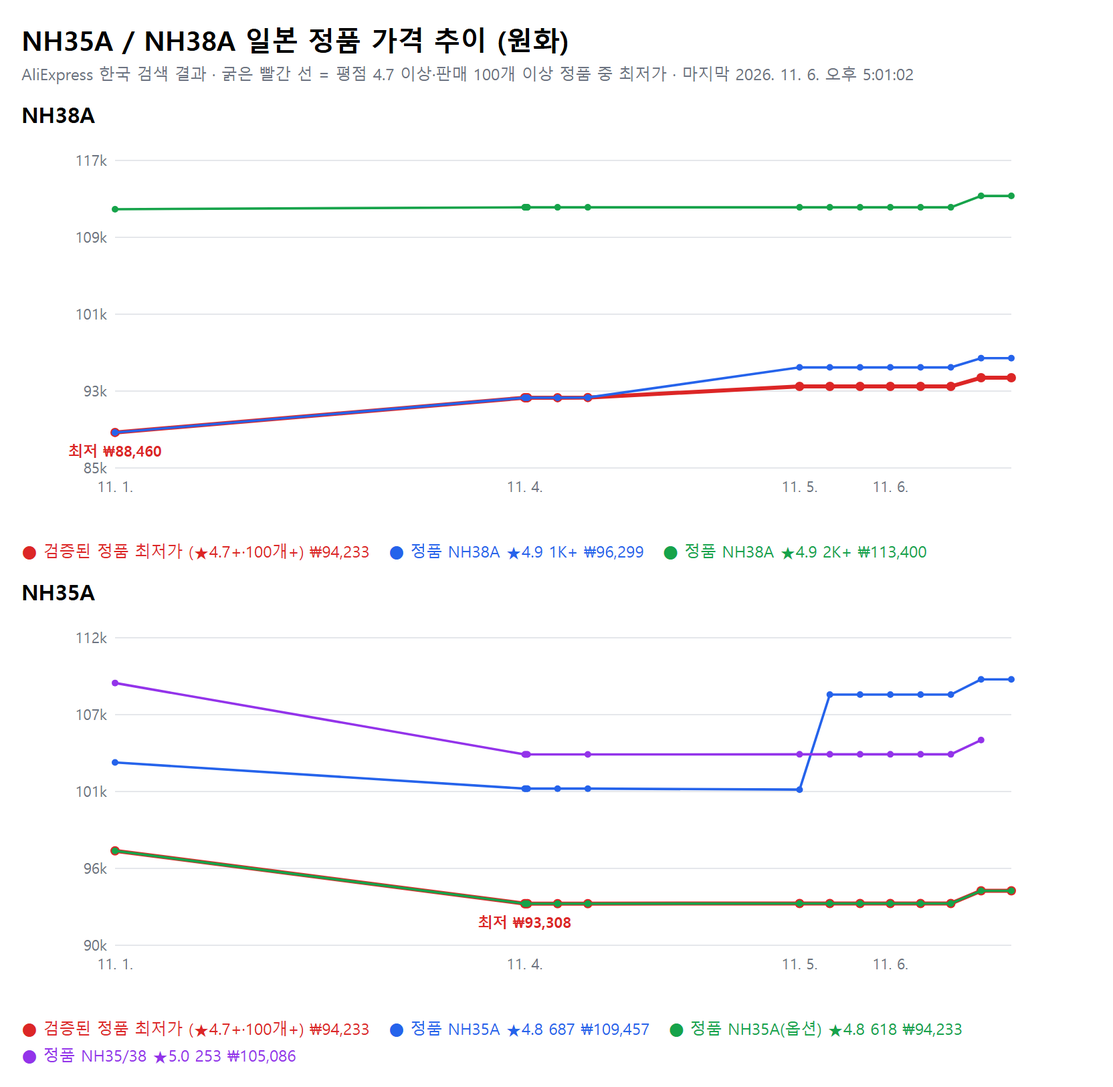
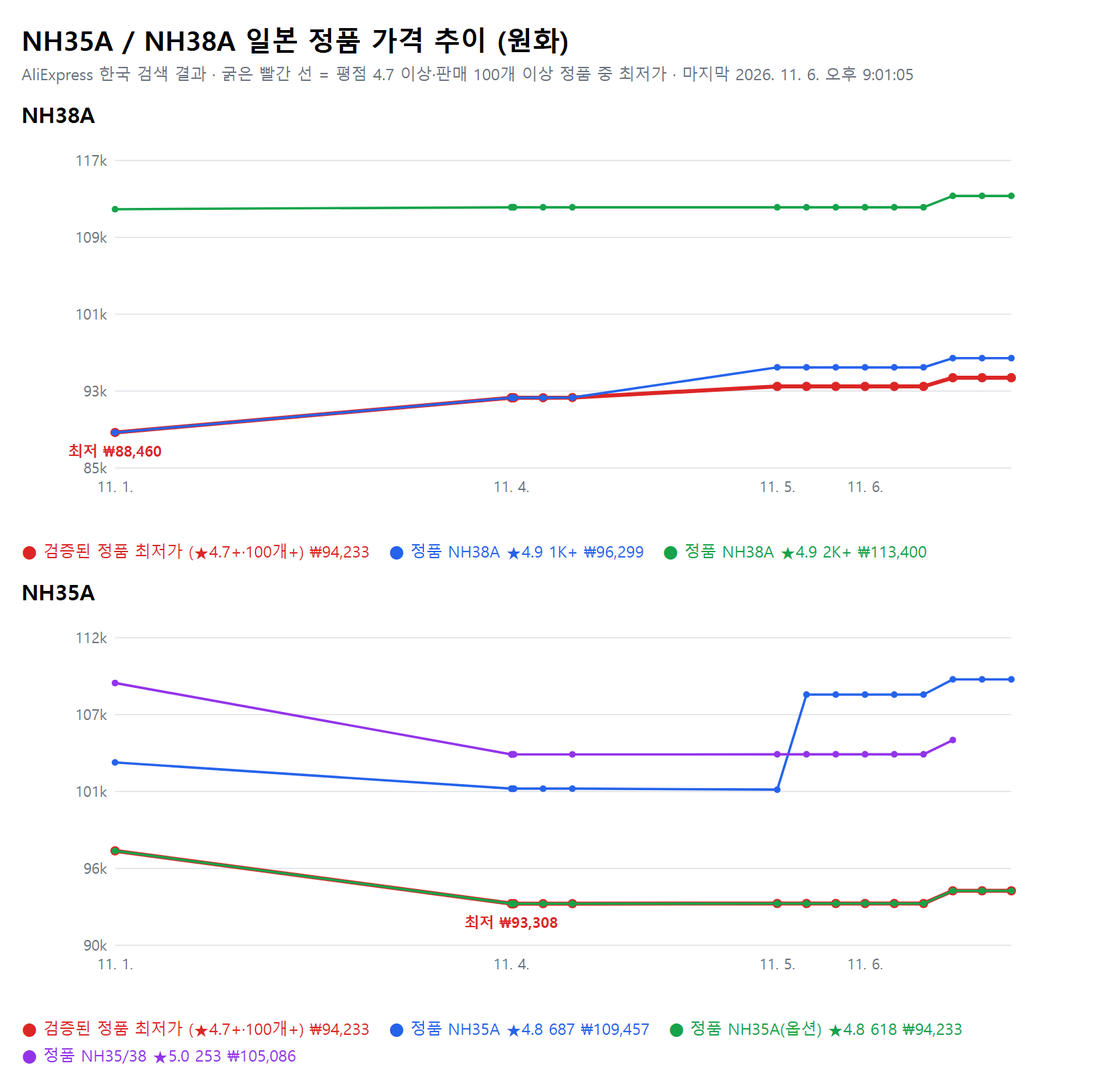
Price tracker update 2026-11-06 21:00 KST

diff --git a/watch_mod/price_tracker/chart.html b/watch_mod/price_tracker/chart.html
@@ -1,2 +1,2 @@
 <!DOCTYPE html><html><head><meta charset="utf-8"><style>body{font-family:sans-serif;margin:16px;width:800px}h1{font-size:20px;margin:0 0 4px}p{color:#6b7280;margin:0 0 8px;font-size:12px}h2{font-size:16px;margin:12px 0 4px}.lg{font-size:12px;display:flex;flex-wrap:wrap;gap:4px 14px}</style></head><body>
-  <h1>NH35A / NH38A 일본 정품 가격 추이 (원화)</h1><p>AliExpress 한국 검색 결과 · 굵은 빨간 선 = 평점 4.7 이상·판매 100개 이상 정품 중 최저가 · 마지막 2026. 11. 6. 오후 5:01:02</p><h2>NH38A</h2><svg width="760" height="300" xmlns="http://www.w3.org/2000/svg" font-family="sans-serif" font-size="11"><line x1="70" x2="740" y1="250" y2="250" stroke="#e5e7eb"/><text x="64" y="254" text-anchor="end" fill="#6b7280">85k</text><line x1="70" x2="740" y1="192.5" y2="192.5" stroke="#e5e7eb"/><text x="64" y="196.5" text-anchor="end" fill="#6b7280">93k</text><line x1="70" x2="740" y1="135" y2="135" stroke="#e5e7eb"/><text x="64" y="139" text-anchor="end" fill="#6b7280">101k</text><line x1="70" x2="740" y1="77.5" y2="77.5" stroke="#e5e7eb"/><text x="64" y="81.5" text-anchor="end" fill="#6b7280">109k</text><line x1="70" x2="740" y1="20" y2="20" stroke="#e5e7eb"/><text x="64" y="24" text-anchor="end" fill="#6b7280">117k</text><text x="70" y="268" text-anchor="middle" fill="#6b7280">11. 1.</text><text x="376.2363946419638" y="268" text-anchor="middle" fill="#6b7280">11. 4.</text><text x="581.7138814114658" y="268" text-anchor="middle" fill="#6b7280">11. 5.</text><text x="649.5533467689485" y="268" text-anchor="middle" fill="#6b7280">11. 6.</text><polyline fill="none" stroke="#dc2626" stroke-width="3" points="70,223.46153846153845 376.2363946419638,197.46221701313925 376.72768268254214,197.46221701313925 377.8052196256576,197.46221701313925 378.3513670674883,197.46221701313925 400.81021863760503,197.46221701313925 423.41705789840506,197.3203380420702 581.7138814114658,189.01332428597865 604.3290041513443,189.01332428597865 626.9394614473665,189.01332428597865 649.5533467689485,189.01332428597865 672.1661391423905,189.01332428597865 694.782938992346,189.01332428597865 717.388707289595,182.50817346246376 740,182.50817346246376"/><circle cx="70" cy="223.46153846153845" r="3.5" fill="#dc2626"/><circle cx="376.2363946419638" cy="197.46221701313925" r="3.5" fill="#dc2626"/><circle cx="376.72768268254214" cy="197.46221701313925" r="3.5" fill="#dc2626"/><circle cx="377.8052196256576" cy="197.46221701313925" r="3.5" fill="#dc2626"/><circle cx="378.3513670674883" cy="197.46221701313925" r="3.5" fill="#dc2626"/><circle cx="400.81021863760503" cy="197.46221701313925" r="3.5" fill="#dc2626"/><circle cx="423.41705789840506" cy="197.3203380420702" r="3.5" fill="#dc2626"/><circle cx="581.7138814114658" cy="189.01332428597865" r="3.5" fill="#dc2626"/><circle cx="604.3290041513443" cy="189.01332428597865" r="3.5" fill="#dc2626"/><circle cx="626.9394614473665" cy="189.01332428597865" r="3.5" fill="#dc2626"/><circle cx="649.5533467689485" cy="189.01332428597865" r="3.5" fill="#dc2626"/><circle cx="672.1661391423905" cy="189.01332428597865" r="3.5" fill="#dc2626"/><circle cx="694.782938992346" cy="189.01332428597865" r="3.5" fill="#dc2626"/><circle cx="717.388707289595" cy="182.50817346246376" r="3.5" fill="#dc2626"/><circle cx="740" cy="182.50817346246376" r="3.5" fill="#dc2626"/><polyline fill="none" stroke="#2563eb" stroke-width="1.8" points="70,223.46153846153845 376.2363946419638,197.46221701313925 376.72768268254214,197.46221701313925 377.8052196256576,197.46221701313925 378.3513670674883,197.46221701313925 400.81021863760503,197.46221701313925 423.41705789840506,197.3203380420702 581.7138814114658,174.7899574363087 604.3290041513443,174.7899574363087 626.9394614473665,174.7899574363087 649.5533467689485,174.7899574363087 672.1661391423905,174.7899574363087 694.782938992346,174.7899574363087 717.388707289595,167.85207575103323 740,167.85207575103323"/><circle cx="70" cy="223.46153846153845" r="2.5" fill="#2563eb"/><circle cx="376.2363946419638" cy="197.46221701313925" r="2.5" fill="#2563eb"/><circle cx="376.72768268254214" cy="197.46221701313925" r="2.5" fill="#2563eb"/><circle cx="377.8052196256576" cy="197.46221701313925" r="2.5" fill="#2563eb"/><circle cx="378.3513670674883" cy="197.46221701313925" r="2.5" fill="#2563eb"/><circle cx="400.81021863760503" cy="197.46221701313925" r="2.5" fill="#2563eb"/><circle cx="423.41705789840506" cy="197.3203380420702" r="2.5" fill="#2563eb"/><circle cx="581.7138814114658" cy="174.7899574363087" r="2.5" fill="#2563eb"/><circle cx="604.3290041513443" cy="174.7899574363087" r="2.5" fill="#2563eb"/><circle cx="626.9394614473665" cy="174.7899574363087" r="2.5" fill="#2563eb"/><circle cx="649.5533467689485" cy="174.7899574363087" r="2.5" fill="#2563eb"/><circle cx="672.1661391423905" cy="174.7899574363087" r="2.5" fill="#2563eb"/><circle cx="694.782938992346" cy="174.7899574363087" r="2.5" fill="#2563eb"/><circle cx="717.388707289595" cy="167.85207575103323" r="2.5" fill="#2563eb"/><circle cx="740" cy="167.85207575103323" r="2.5" fill="#2563eb"/><polyline fill="none" stroke="#16a34a" stroke-width="1.8" points="70,56.469989513293434 376.2363946419638,55.05119980260318 376.72768268254214,55.05119980260318 377.8052196256576,55.05119980260318 378.3513670674883,55.05119980260318 400.81021863760503,55.05119980260318 423.41705789840506,55.05119980260318 581.7138814114658,55.05119980260318 604.3290041513443,55.05119980260318 626.9394614473665,55.05119980260318 649.5533467689485,55.05119980260318 672.1661391423905,55.05119980260318 694.782938992346,55.05119980260318 717.388707289595,46.53846153846155 740,46.53846153846155"/><circle cx="70" cy="56.469989513293434" r="2.5" fill="#16a34a"/><circle cx="376.2363946419638" cy="55.05119980260318" r="2.5" fill="#16a34a"/><circle cx="376.72768268254214" cy="55.05119980260318" r="2.5" fill="#16a34a"/><circle cx="377.8052196256576" cy="55.05119980260318" r="2.5" fill="#16a34a"/><circle cx="378.3513670674883" cy="55.05119980260318" r="2.5" fill="#16a34a"/><circle cx="400.81021863760503" cy="55.05119980260318" r="2.5" fill="#16a34a"/><circle cx="423.41705789840506" cy="55.05119980260318" r="2.5" fill="#16a34a"/><circle cx="581.7138814114658" cy="55.05119980260318" r="2.5" fill="#16a34a"/><circle cx="604.3290041513443" cy="55.05119980260318" r="2.5" fill="#16a34a"/><circle cx="626.9394614473665" cy="55.05119980260318" r="2.5" fill="#16a34a"/><circle cx="649.5533467689485" cy="55.05119980260318" r="2.5" fill="#16a34a"/><circle cx="672.1661391423905" cy="55.05119980260318" r="2.5" fill="#16a34a"/><circle cx="694.782938992346" cy="55.05119980260318" r="2.5" fill="#16a34a"/><circle cx="717.388707289595" cy="46.53846153846155" r="2.5" fill="#16a34a"/><circle cx="740" cy="46.53846153846155" r="2.5" fill="#16a34a"/><text x="70" y="241.46153846153845" text-anchor="middle" fill="#dc2626" font-weight="bold">최저 ₩88,460</text></svg><div class="lg"><span style="color:#dc2626">● 검증된 정품 최저가 (★4.7+·100개+) ₩94,233</span><span style="color:#2563eb">● 정품 NH38A ★4.9 1K+ ₩96,299</span><span style="color:#16a34a">● 정품 NH38A ★4.9 2K+ ₩113,400</span></div><h2>NH35A</h2><svg width="760" height="300" xmlns="http://www.w3.org/2000/svg" font-family="sans-serif" font-size="11"><line x1="70" x2="740" y1="250" y2="250" stroke="#e5e7eb"/><text x="64" y="254" text-anchor="end" fill="#6b7280">90k</text><line x1="70" x2="740" y1="192.5" y2="192.5" stroke="#e5e7eb"/><text x="64" y="196.5" text-anchor="end" fill="#6b7280">96k</text><line x1="70" x2="740" y1="135" y2="135" stroke="#e5e7eb"/><text x="64" y="139" text-anchor="end" fill="#6b7280">101k</text><line x1="70" x2="740" y1="77.5" y2="77.5" stroke="#e5e7eb"/><text x="64" y="81.5" text-anchor="end" fill="#6b7280">107k</text><line x1="70" x2="740" y1="20" y2="20" stroke="#e5e7eb"/><text x="64" y="24" text-anchor="end" fill="#6b7280">112k</text><text x="70" y="268" text-anchor="middle" fill="#6b7280">11. 1.</text><text x="376.2363946419638" y="268" text-anchor="middle" fill="#6b7280">11. 4.</text><text x="581.7138814114658" y="268" text-anchor="middle" fill="#6b7280">11. 5.</text><text x="649.5533467689485" y="268" text-anchor="middle" fill="#6b7280">11. 6.</text><polyline fill="none" stroke="#dc2626" stroke-width="3" points="70,179.38733125649014 376.2363946419638,218.84735202492212 376.72768268254214,218.84735202492212 377.8052196256576,218.84735202492212 378.3513670674883,218.84735202492212 400.81021863760503,218.84735202492212 423.41705789840506,218.84735202492212 581.7138814114658,218.76427829698858 604.3290041513443,218.76427829698858 626.9394614473665,218.76427829698858 649.5533467689485,218.76427829698858 672.1661391423905,218.76427829698858 694.782938992346,218.76427829698858 717.388707289595,209.24195223260645 740,209.24195223260645"/><circle cx="70" cy="179.38733125649014" r="3.5" fill="#dc2626"/><circle cx="376.2363946419638" cy="218.84735202492212" r="3.5" fill="#dc2626"/><circle cx="376.72768268254214" cy="218.84735202492212" r="3.5" fill="#dc2626"/><circle cx="377.8052196256576" cy="218.84735202492212" r="3.5" fill="#dc2626"/><circle cx="378.3513670674883" cy="218.84735202492212" r="3.5" fill="#dc2626"/><circle cx="400.81021863760503" cy="218.84735202492212" r="3.5" fill="#dc2626"/><circle cx="423.41705789840506" cy="218.84735202492212" r="3.5" fill="#dc2626"/><circle cx="581.7138814114658" cy="218.76427829698858" r="3.5" fill="#dc2626"/><circle cx="604.3290041513443" cy="218.76427829698858" r="3.5" fill="#dc2626"/><circle cx="626.9394614473665" cy="218.76427829698858" r="3.5" fill="#dc2626"/><circle cx="649.5533467689485" cy="218.76427829698858" r="3.5" fill="#dc2626"/><circle cx="672.1661391423905" cy="218.76427829698858" r="3.5" fill="#dc2626"/><circle cx="694.782938992346" cy="218.76427829698858" r="3.5" fill="#dc2626"/><circle cx="717.388707289595" cy="209.24195223260645" r="3.5" fill="#dc2626"/><circle cx="740" cy="209.24195223260645" r="3.5" fill="#dc2626"/><polyline fill="none" stroke="#2563eb" stroke-width="1.8" points="70,113.23987538940811 376.2363946419638,132.8348909657321 376.72768268254214,132.8348909657321 377.8052196256576,132.8348909657321 378.3513670674883,132.8348909657321 400.81021863760503,132.8348909657321 423.41705789840506,132.8348909657321 581.7138814114658,133.58255451713396 604.3290041513443,62.50259605399793 626.9394614473665,62.50259605399793 649.5533467689485,62.50259605399793 672.1661391423905,62.50259605399793 694.782938992346,62.50259605399793 717.388707289595,51.1526479750779 740,51.1526479750779"/><circle cx="70" cy="113.23987538940811" r="2.5" fill="#2563eb"/><circle cx="376.2363946419638" cy="132.8348909657321" r="2.5" fill="#2563eb"/><circle cx="376.72768268254214" cy="132.8348909657321" r="2.5" fill="#2563eb"/><circle cx="377.8052196256576" cy="132.8348909657321" r="2.5" fill="#2563eb"/><circle cx="378.3513670674883" cy="132.8348909657321" r="2.5" fill="#2563eb"/><circle cx="400.81021863760503" cy="132.8348909657321" r="2.5" fill="#2563eb"/><circle cx="423.41705789840506" cy="132.8348909657321" r="2.5" fill="#2563eb"/><circle cx="581.7138814114658" cy="133.58255451713396" r="2.5" fill="#2563eb"/><circle cx="604.3290041513443" cy="62.50259605399793" r="2.5" fill="#2563eb"/><circle cx="626.9394614473665" cy="62.50259605399793" r="2.5" fill="#2563eb"/><circle cx="649.5533467689485" cy="62.50259605399793" r="2.5" fill="#2563eb"/><circle cx="672.1661391423905" cy="62.50259605399793" r="2.5" fill="#2563eb"/><circle cx="694.782938992346" cy="62.50259605399793" r="2.5" fill="#2563eb"/><circle cx="717.388707289595" cy="51.1526479750779" r="2.5" fill="#2563eb"/><circle cx="740" cy="51.1526479750779" r="2.5" fill="#2563eb"/><polyline fill="none" stroke="#16a34a" stroke-width="1.8" points="70,179.38733125649014 376.2363946419638,218.84735202492212 376.72768268254214,218.84735202492212 377.8052196256576,218.84735202492212 378.3513670674883,218.84735202492212 400.81021863760503,218.84735202492212 423.41705789840506,218.84735202492212 581.7138814114658,218.76427829698858 604.3290041513443,218.76427829698858 626.9394614473665,218.76427829698858 649.5533467689485,218.76427829698858 672.1661391423905,218.76427829698858 694.782938992346,218.76427829698858 717.388707289595,209.24195223260645 740,209.24195223260645"/><circle cx="70" cy="179.38733125649014" r="2.5" fill="#16a34a"/><circle cx="376.2363946419638" cy="218.84735202492212" r="2.5" fill="#16a34a"/><circle cx="376.72768268254214" cy="218.84735202492212" r="2.5" fill="#16a34a"/><circle cx="377.8052196256576" cy="218.84735202492212" r="2.5" fill="#16a34a"/><circle cx="378.3513670674883" cy="218.84735202492212" r="2.5" fill="#16a34a"/><circle cx="400.81021863760503" cy="218.84735202492212" r="2.5" fill="#16a34a"/><circle cx="423.41705789840506" cy="218.84735202492212" r="2.5" fill="#16a34a"/><circle cx="581.7138814114658" cy="218.76427829698858" r="2.5" fill="#16a34a"/><circle cx="604.3290041513443" cy="218.76427829698858" r="2.5" fill="#16a34a"/><circle cx="626.9394614473665" cy="218.76427829698858" r="2.5" fill="#16a34a"/><circle cx="649.5533467689485" cy="218.76427829698858" r="2.5" fill="#16a34a"/><circle cx="672.1661391423905" cy="218.76427829698858" r="2.5" fill="#16a34a"/><circle cx="694.782938992346" cy="218.76427829698858" r="2.5" fill="#16a34a"/><circle cx="717.388707289595" cy="209.24195223260645" r="2.5" fill="#16a34a"/><circle cx="740" cy="209.24195223260645" r="2.5" fill="#16a34a"/><polyline fill="none" stroke="#9333ea" stroke-width="1.8" points="70,53.821391484942886 376.2363946419638,107.26895119418484 376.72768268254214,107.26895119418484 377.8052196256576,107.26895119418484 378.3513670674883,107.26895119418484 423.41705789840506,107.26895119418484 581.7138814114658,107.17549325025959 604.3290041513443,107.17549325025959 626.9394614473665,107.17549325025959 649.5533467689485,107.17549325025959 672.1661391423905,107.17549325025959 694.782938992346,107.17549325025959 717.388707289595,96.54205607476636"/><circle cx="70" cy="53.821391484942886" r="2.5" fill="#9333ea"/><circle cx="376.2363946419638" cy="107.26895119418484" r="2.5" fill="#9333ea"/><circle cx="376.72768268254214" cy="107.26895119418484" r="2.5" fill="#9333ea"/><circle cx="377.8052196256576" cy="107.26895119418484" r="2.5" fill="#9333ea"/><circle cx="378.3513670674883" cy="107.26895119418484" r="2.5" fill="#9333ea"/><circle cx="423.41705789840506" cy="107.26895119418484" r="2.5" fill="#9333ea"/><circle cx="581.7138814114658" cy="107.17549325025959" r="2.5" fill="#9333ea"/><circle cx="604.3290041513443" cy="107.17549325025959" r="2.5" fill="#9333ea"/><circle cx="626.9394614473665" cy="107.17549325025959" r="2.5" fill="#9333ea"/><circle cx="649.5533467689485" cy="107.17549325025959" r="2.5" fill="#9333ea"/><circle cx="672.1661391423905" cy="107.17549325025959" r="2.5" fill="#9333ea"/><circle cx="694.782938992346" cy="107.17549325025959" r="2.5" fill="#9333ea"/><circle cx="717.388707289595" cy="96.54205607476636" r="2.5" fill="#9333ea"/><text x="376.2363946419638" y="236.84735202492212" text-anchor="middle" fill="#dc2626" font-weight="bold">최저 ₩93,308</text></svg><div class="lg"><span style="color:#dc2626">● 검증된 정품 최저가 (★4.7+·100개+) ₩94,233</span><span style="color:#2563eb">● 정품 NH35A ★4.8 687 ₩109,457</span><span style="color:#16a34a">● 정품 NH35A(옵션) ★4.8 618 ₩94,233</span><span style="color:#9333ea">● 정품 NH35/38 ★5.0 253 ₩105,086</span></div></body></html>
+  <h1>NH35A / NH38A 일본 정품 가격 추이 (원화)</h1><p>AliExpress 한국 검색 결과 · 굵은 빨간 선 = 평점 4.7 이상·판매 100개 이상 정품 중 최저가 · 마지막 2026. 11. 6. 오후 9:01:05</p><h2>NH38A</h2><svg width="760" height="300" xmlns="http://www.w3.org/2000/svg" font-family="sans-serif" font-size="11"><line x1="70" x2="740" y1="250" y2="250" stroke="#e5e7eb"/><text x="64" y="254" text-anchor="end" fill="#6b7280">85k</text><line x1="70" x2="740" y1="192.5" y2="192.5" stroke="#e5e7eb"/><text x="64" y="196.5" text-anchor="end" fill="#6b7280">93k</text><line x1="70" x2="740" y1="135" y2="135" stroke="#e5e7eb"/><text x="64" y="139" text-anchor="end" fill="#6b7280">101k</text><line x1="70" x2="740" y1="77.5" y2="77.5" stroke="#e5e7eb"/><text x="64" y="81.5" text-anchor="end" fill="#6b7280">109k</text><line x1="70" x2="740" y1="20" y2="20" stroke="#e5e7eb"/><text x="64" y="24" text-anchor="end" fill="#6b7280">117k</text><text x="70" y="268" text-anchor="middle" fill="#6b7280">11. 1.</text><text x="366.2362345197405" y="268" text-anchor="middle" fill="#6b7280">11. 4.</text><text x="565.0038468094003" y="268" text-anchor="middle" fill="#6b7280">11. 5.</text><text x="630.6280120652277" y="268" text-anchor="middle" fill="#6b7280">11. 6.</text><polyline fill="none" stroke="#dc2626" stroke-width="3" points="70,223.46153846153845 366.2362345197405,197.46221701313925 366.7114795322599,197.46221701313925 367.7538294690061,197.46221701313925 368.28214244712115,197.46221701313925 390.0075994377824,197.46221701313925 411.87621157593856,197.3203380420702 565.0038468094003,189.01332428597865 586.8804719293373,189.01332428597865 608.7525839556496,189.01332428597865 630.6280120652277,189.01332428597865 652.5023829169255,189.01332428597865 674.3806303808516,189.01332428597865 696.2482065278087,182.50817346246376 718.1211266880182,182.50817346246376 740,182.50817346246376"/><circle cx="70" cy="223.46153846153845" r="3.5" fill="#dc2626"/><circle cx="366.2362345197405" cy="197.46221701313925" r="3.5" fill="#dc2626"/><circle cx="366.7114795322599" cy="197.46221701313925" r="3.5" fill="#dc2626"/><circle cx="367.7538294690061" cy="197.46221701313925" r="3.5" fill="#dc2626"/><circle cx="368.28214244712115" cy="197.46221701313925" r="3.5" fill="#dc2626"/><circle cx="390.0075994377824" cy="197.46221701313925" r="3.5" fill="#dc2626"/><circle cx="411.87621157593856" cy="197.3203380420702" r="3.5" fill="#dc2626"/><circle cx="565.0038468094003" cy="189.01332428597865" r="3.5" fill="#dc2626"/><circle cx="586.8804719293373" cy="189.01332428597865" r="3.5" fill="#dc2626"/><circle cx="608.7525839556496" cy="189.01332428597865" r="3.5" fill="#dc2626"/><circle cx="630.6280120652277" cy="189.01332428597865" r="3.5" fill="#dc2626"/><circle cx="652.5023829169255" cy="189.01332428597865" r="3.5" fill="#dc2626"/><circle cx="674.3806303808516" cy="189.01332428597865" r="3.5" fill="#dc2626"/><circle cx="696.2482065278087" cy="182.50817346246376" r="3.5" fill="#dc2626"/><circle cx="718.1211266880182" cy="182.50817346246376" r="3.5" fill="#dc2626"/><circle cx="740" cy="182.50817346246376" r="3.5" fill="#dc2626"/><polyline fill="none" stroke="#2563eb" stroke-width="1.8" points="70,223.46153846153845 366.2362345197405,197.46221701313925 366.7114795322599,197.46221701313925 367.7538294690061,197.46221701313925 368.28214244712115,197.46221701313925 390.0075994377824,197.46221701313925 411.87621157593856,197.3203380420702 565.0038468094003,174.7899574363087 586.8804719293373,174.7899574363087 608.7525839556496,174.7899574363087 630.6280120652277,174.7899574363087 652.5023829169255,174.7899574363087 674.3806303808516,174.7899574363087 696.2482065278087,167.85207575103323 718.1211266880182,167.85207575103323 740,167.85207575103323"/><circle cx="70" cy="223.46153846153845" r="2.5" fill="#2563eb"/><circle cx="366.2362345197405" cy="197.46221701313925" r="2.5" fill="#2563eb"/><circle cx="366.7114795322599" cy="197.46221701313925" r="2.5" fill="#2563eb"/><circle cx="367.7538294690061" cy="197.46221701313925" r="2.5" fill="#2563eb"/><circle cx="368.28214244712115" cy="197.46221701313925" r="2.5" fill="#2563eb"/><circle cx="390.0075994377824" cy="197.46221701313925" r="2.5" fill="#2563eb"/><circle cx="411.87621157593856" cy="197.3203380420702" r="2.5" fill="#2563eb"/><circle cx="565.0038468094003" cy="174.7899574363087" r="2.5" fill="#2563eb"/><circle cx="586.8804719293373" cy="174.7899574363087" r="2.5" fill="#2563eb"/><circle cx="608.7525839556496" cy="174.7899574363087" r="2.5" fill="#2563eb"/><circle cx="630.6280120652277" cy="174.7899574363087" r="2.5" fill="#2563eb"/><circle cx="652.5023829169255" cy="174.7899574363087" r="2.5" fill="#2563eb"/><circle cx="674.3806303808516" cy="174.7899574363087" r="2.5" fill="#2563eb"/><circle cx="696.2482065278087" cy="167.85207575103323" r="2.5" fill="#2563eb"/><circle cx="718.1211266880182" cy="167.85207575103323" r="2.5" fill="#2563eb"/><circle cx="740" cy="167.85207575103323" r="2.5" fill="#2563eb"/><polyline fill="none" stroke="#16a34a" stroke-width="1.8" points="70,56.469989513293434 366.2362345197405,55.05119980260318 366.7114795322599,55.05119980260318 367.7538294690061,55.05119980260318 368.28214244712115,55.05119980260318 390.0075994377824,55.05119980260318 411.87621157593856,55.05119980260318 565.0038468094003,55.05119980260318 586.8804719293373,55.05119980260318 608.7525839556496,55.05119980260318 630.6280120652277,55.05119980260318 652.5023829169255,55.05119980260318 674.3806303808516,55.05119980260318 696.2482065278087,46.53846153846155 718.1211266880182,46.53846153846155 740,46.53846153846155"/><circle cx="70" cy="56.469989513293434" r="2.5" fill="#16a34a"/><circle cx="366.2362345197405" cy="55.05119980260318" r="2.5" fill="#16a34a"/><circle cx="366.7114795322599" cy="55.05119980260318" r="2.5" fill="#16a34a"/><circle cx="367.7538294690061" cy="55.05119980260318" r="2.5" fill="#16a34a"/><circle cx="368.28214244712115" cy="55.05119980260318" r="2.5" fill="#16a34a"/><circle cx="390.0075994377824" cy="55.05119980260318" r="2.5" fill="#16a34a"/><circle cx="411.87621157593856" cy="55.05119980260318" r="2.5" fill="#16a34a"/><circle cx="565.0038468094003" cy="55.05119980260318" r="2.5" fill="#16a34a"/><circle cx="586.8804719293373" cy="55.05119980260318" r="2.5" fill="#16a34a"/><circle cx="608.7525839556496" cy="55.05119980260318" r="2.5" fill="#16a34a"/><circle cx="630.6280120652277" cy="55.05119980260318" r="2.5" fill="#16a34a"/><circle cx="652.5023829169255" cy="55.05119980260318" r="2.5" fill="#16a34a"/><circle cx="674.3806303808516" cy="55.05119980260318" r="2.5" fill="#16a34a"/><circle cx="696.2482065278087" cy="46.53846153846155" r="2.5" fill="#16a34a"/><circle cx="718.1211266880182" cy="46.53846153846155" r="2.5" fill="#16a34a"/><circle cx="740" cy="46.53846153846155" r="2.5" fill="#16a34a"/><text x="70" y="241.46153846153845" text-anchor="middle" fill="#dc2626" font-weight="bold">최저 ₩88,460</text></svg><div class="lg"><span style="color:#dc2626">● 검증된 정품 최저가 (★4.7+·100개+) ₩94,233</span><span style="color:#2563eb">● 정품 NH38A ★4.9 1K+ ₩96,299</span><span style="color:#16a34a">● 정품 NH38A ★4.9 2K+ ₩113,400</span></div><h2>NH35A</h2><svg width="760" height="300" xmlns="http://www.w3.org/2000/svg" font-family="sans-serif" font-size="11"><line x1="70" x2="740" y1="250" y2="250" stroke="#e5e7eb"/><text x="64" y="254" text-anchor="end" fill="#6b7280">90k</text><line x1="70" x2="740" y1="192.5" y2="192.5" stroke="#e5e7eb"/><text x="64" y="196.5" text-anchor="end" fill="#6b7280">96k</text><line x1="70" x2="740" y1="135" y2="135" stroke="#e5e7eb"/><text x="64" y="139" text-anchor="end" fill="#6b7280">101k</text><line x1="70" x2="740" y1="77.5" y2="77.5" stroke="#e5e7eb"/><text x="64" y="81.5" text-anchor="end" fill="#6b7280">107k</text><line x1="70" x2="740" y1="20" y2="20" stroke="#e5e7eb"/><text x="64" y="24" text-anchor="end" fill="#6b7280">112k</text><text x="70" y="268" text-anchor="middle" fill="#6b7280">11. 1.</text><text x="366.2362345197405" y="268" text-anchor="middle" fill="#6b7280">11. 4.</text><text x="565.0038468094003" y="268" text-anchor="middle" fill="#6b7280">11. 5.</text><text x="630.6280120652277" y="268" text-anchor="middle" fill="#6b7280">11. 6.</text><polyline fill="none" stroke="#dc2626" stroke-width="3" points="70,179.38733125649014 366.2362345197405,218.84735202492212 366.7114795322599,218.84735202492212 367.7538294690061,218.84735202492212 368.28214244712115,218.84735202492212 390.0075994377824,218.84735202492212 411.87621157593856,218.84735202492212 565.0038468094003,218.76427829698858 586.8804719293373,218.76427829698858 608.7525839556496,218.76427829698858 630.6280120652277,218.76427829698858 652.5023829169255,218.76427829698858 674.3806303808516,218.76427829698858 696.2482065278087,209.24195223260645 718.1211266880182,209.24195223260645 740,209.24195223260645"/><circle cx="70" cy="179.38733125649014" r="3.5" fill="#dc2626"/><circle cx="366.2362345197405" cy="218.84735202492212" r="3.5" fill="#dc2626"/><circle cx="366.7114795322599" cy="218.84735202492212" r="3.5" fill="#dc2626"/><circle cx="367.7538294690061" cy="218.84735202492212" r="3.5" fill="#dc2626"/><circle cx="368.28214244712115" cy="218.84735202492212" r="3.5" fill="#dc2626"/><circle cx="390.0075994377824" cy="218.84735202492212" r="3.5" fill="#dc2626"/><circle cx="411.87621157593856" cy="218.84735202492212" r="3.5" fill="#dc2626"/><circle cx="565.0038468094003" cy="218.76427829698858" r="3.5" fill="#dc2626"/><circle cx="586.8804719293373" cy="218.76427829698858" r="3.5" fill="#dc2626"/><circle cx="608.7525839556496" cy="218.76427829698858" r="3.5" fill="#dc2626"/><circle cx="630.6280120652277" cy="218.76427829698858" r="3.5" fill="#dc2626"/><circle cx="652.5023829169255" cy="218.76427829698858" r="3.5" fill="#dc2626"/><circle cx="674.3806303808516" cy="218.76427829698858" r="3.5" fill="#dc2626"/><circle cx="696.2482065278087" cy="209.24195223260645" r="3.5" fill="#dc2626"/><circle cx="718.1211266880182" cy="209.24195223260645" r="3.5" fill="#dc2626"/><circle cx="740" cy="209.24195223260645" r="3.5" fill="#dc2626"/><polyline fill="none" stroke="#2563eb" stroke-width="1.8" points="70,113.23987538940811 366.2362345197405,132.8348909657321 366.7114795322599,132.8348909657321 367.7538294690061,132.8348909657321 368.28214244712115,132.8348909657321 390.0075994377824,132.8348909657321 411.87621157593856,132.8348909657321 565.0038468094003,133.58255451713396 586.8804719293373,62.50259605399793 608.7525839556496,62.50259605399793 630.6280120652277,62.50259605399793 652.5023829169255,62.50259605399793 674.3806303808516,62.50259605399793 696.2482065278087,51.1526479750779 718.1211266880182,51.1526479750779 740,51.1526479750779"/><circle cx="70" cy="113.23987538940811" r="2.5" fill="#2563eb"/><circle cx="366.2362345197405" cy="132.8348909657321" r="2.5" fill="#2563eb"/><circle cx="366.7114795322599" cy="132.8348909657321" r="2.5" fill="#2563eb"/><circle cx="367.7538294690061" cy="132.8348909657321" r="2.5" fill="#2563eb"/><circle cx="368.28214244712115" cy="132.8348909657321" r="2.5" fill="#2563eb"/><circle cx="390.0075994377824" cy="132.8348909657321" r="2.5" fill="#2563eb"/><circle cx="411.87621157593856" cy="132.8348909657321" r="2.5" fill="#2563eb"/><circle cx="565.0038468094003" cy="133.58255451713396" r="2.5" fill="#2563eb"/><circle cx="586.8804719293373" cy="62.50259605399793" r="2.5" fill="#2563eb"/><circle cx="608.7525839556496" cy="62.50259605399793" r="2.5" fill="#2563eb"/><circle cx="630.6280120652277" cy="62.50259605399793" r="2.5" fill="#2563eb"/><circle cx="652.5023829169255" cy="62.50259605399793" r="2.5" fill="#2563eb"/><circle cx="674.3806303808516" cy="62.50259605399793" r="2.5" fill="#2563eb"/><circle cx="696.2482065278087" cy="51.1526479750779" r="2.5" fill="#2563eb"/><circle cx="718.1211266880182" cy="51.1526479750779" r="2.5" fill="#2563eb"/><circle cx="740" cy="51.1526479750779" r="2.5" fill="#2563eb"/><polyline fill="none" stroke="#16a34a" stroke-width="1.8" points="70,179.38733125649014 366.2362345197405,218.84735202492212 366.7114795322599,218.84735202492212 367.7538294690061,218.84735202492212 368.28214244712115,218.84735202492212 390.0075994377824,218.84735202492212 411.87621157593856,218.84735202492212 565.0038468094003,218.76427829698858 586.8804719293373,218.76427829698858 608.7525839556496,218.76427829698858 630.6280120652277,218.76427829698858 652.5023829169255,218.76427829698858 674.3806303808516,218.76427829698858 696.2482065278087,209.24195223260645 718.1211266880182,209.24195223260645 740,209.24195223260645"/><circle cx="70" cy="179.38733125649014" r="2.5" fill="#16a34a"/><circle cx="366.2362345197405" cy="218.84735202492212" r="2.5" fill="#16a34a"/><circle cx="366.7114795322599" cy="218.84735202492212" r="2.5" fill="#16a34a"/><circle cx="367.7538294690061" cy="218.84735202492212" r="2.5" fill="#16a34a"/><circle cx="368.28214244712115" cy="218.84735202492212" r="2.5" fill="#16a34a"/><circle cx="390.0075994377824" cy="218.84735202492212" r="2.5" fill="#16a34a"/><circle cx="411.87621157593856" cy="218.84735202492212" r="2.5" fill="#16a34a"/><circle cx="565.0038468094003" cy="218.76427829698858" r="2.5" fill="#16a34a"/><circle cx="586.8804719293373" cy="218.76427829698858" r="2.5" fill="#16a34a"/><circle cx="608.7525839556496" cy="218.76427829698858" r="2.5" fill="#16a34a"/><circle cx="630.6280120652277" cy="218.76427829698858" r="2.5" fill="#16a34a"/><circle cx="652.5023829169255" cy="218.76427829698858" r="2.5" fill="#16a34a"/><circle cx="674.3806303808516" cy="218.76427829698858" r="2.5" fill="#16a34a"/><circle cx="696.2482065278087" cy="209.24195223260645" r="2.5" fill="#16a34a"/><circle cx="718.1211266880182" cy="209.24195223260645" r="2.5" fill="#16a34a"/><circle cx="740" cy="209.24195223260645" r="2.5" fill="#16a34a"/><polyline fill="none" stroke="#9333ea" stroke-width="1.8" points="70,53.821391484942886 366.2362345197405,107.26895119418484 366.7114795322599,107.26895119418484 367.7538294690061,107.26895119418484 368.28214244712115,107.26895119418484 411.87621157593856,107.26895119418484 565.0038468094003,107.17549325025959 586.8804719293373,107.17549325025959 608.7525839556496,107.17549325025959 630.6280120652277,107.17549325025959 652.5023829169255,107.17549325025959 674.3806303808516,107.17549325025959 696.2482065278087,96.54205607476636"/><circle cx="70" cy="53.821391484942886" r="2.5" fill="#9333ea"/><circle cx="366.2362345197405" cy="107.26895119418484" r="2.5" fill="#9333ea"/><circle cx="366.7114795322599" cy="107.26895119418484" r="2.5" fill="#9333ea"/><circle cx="367.7538294690061" cy="107.26895119418484" r="2.5" fill="#9333ea"/><circle cx="368.28214244712115" cy="107.26895119418484" r="2.5" fill="#9333ea"/><circle cx="411.87621157593856" cy="107.26895119418484" r="2.5" fill="#9333ea"/><circle cx="565.0038468094003" cy="107.17549325025959" r="2.5" fill="#9333ea"/><circle cx="586.8804719293373" cy="107.17549325025959" r="2.5" fill="#9333ea"/><circle cx="608.7525839556496" cy="107.17549325025959" r="2.5" fill="#9333ea"/><circle cx="630.6280120652277" cy="107.17549325025959" r="2.5" fill="#9333ea"/><circle cx="652.5023829169255" cy="107.17549325025959" r="2.5" fill="#9333ea"/><circle cx="674.3806303808516" cy="107.17549325025959" r="2.5" fill="#9333ea"/><circle cx="696.2482065278087" cy="96.54205607476636" r="2.5" fill="#9333ea"/><text x="366.2362345197405" y="236.84735202492212" text-anchor="middle" fill="#dc2626" font-weight="bold">최저 ₩93,308</text></svg><div class="lg"><span style="color:#dc2626">● 검증된 정품 최저가 (★4.7+·100개+) ₩94,233</span><span style="color:#2563eb">● 정품 NH35A ★4.8 687 ₩109,457</span><span style="color:#16a34a">● 정품 NH35A(옵션) ★4.8 618 ₩94,233</span><span style="color:#9333ea">● 정품 NH35/38 ★5.0 253 ₩105,086</span></div></body></html>

diff --git a/watch_mod/price_tracker/latest.md b/watch_mod/price_tracker/latest.md
@@ -1,16 +1,16 @@
 # NH35A / NH38A 일본 정품 가격 추적
 
-마지막 확인: 2026. 11. 6. 오후 5:01:02 (기록 15회)
+마지막 확인: 2026. 11. 6. 오후 9:01:05 (기록 16회)
 
 ## NH38A
-- 검증된 정품 최저가: **₩94,233** [#1005001430226835](https://www.aliexpress.com/item/1005001430226835.html) ★4.8 · 600+판매
+- 검증된 정품 최저가: **₩94,233** [#1005001430226835](https://www.aliexpress.com/item/1005001430226835.html) ★4.8 · 641판매
 - 직전 대비: +₩0
 - 기록상 최저: ₩88,460
 - 정품 NH38A ★4.9 1K+: ₩96,299 ([링크](https://www.aliexpress.com/item/1005010806500239.html))
 - 정품 NH38A ★4.9 2K+: ₩113,400 ([링크](https://www.aliexpress.com/item/1005008240895208.html))
 
 ## NH35A
-- 검증된 정품 최저가: **₩94,233** [#1005001430226835](https://www.aliexpress.com/item/1005001430226835.html) ★4.8 · 600+판매
+- 검증된 정품 최저가: **₩94,233** [#1005001430226835](https://www.aliexpress.com/item/1005001430226835.html) ★4.8 · 641판매
 - 직전 대비: +₩0
 - 기록상 최저: ₩93,308
 - 정품 NH35A ★4.8 687: ₩109,457 ([링크](https://www.aliexpress.com/item/1005006845396357.html))
